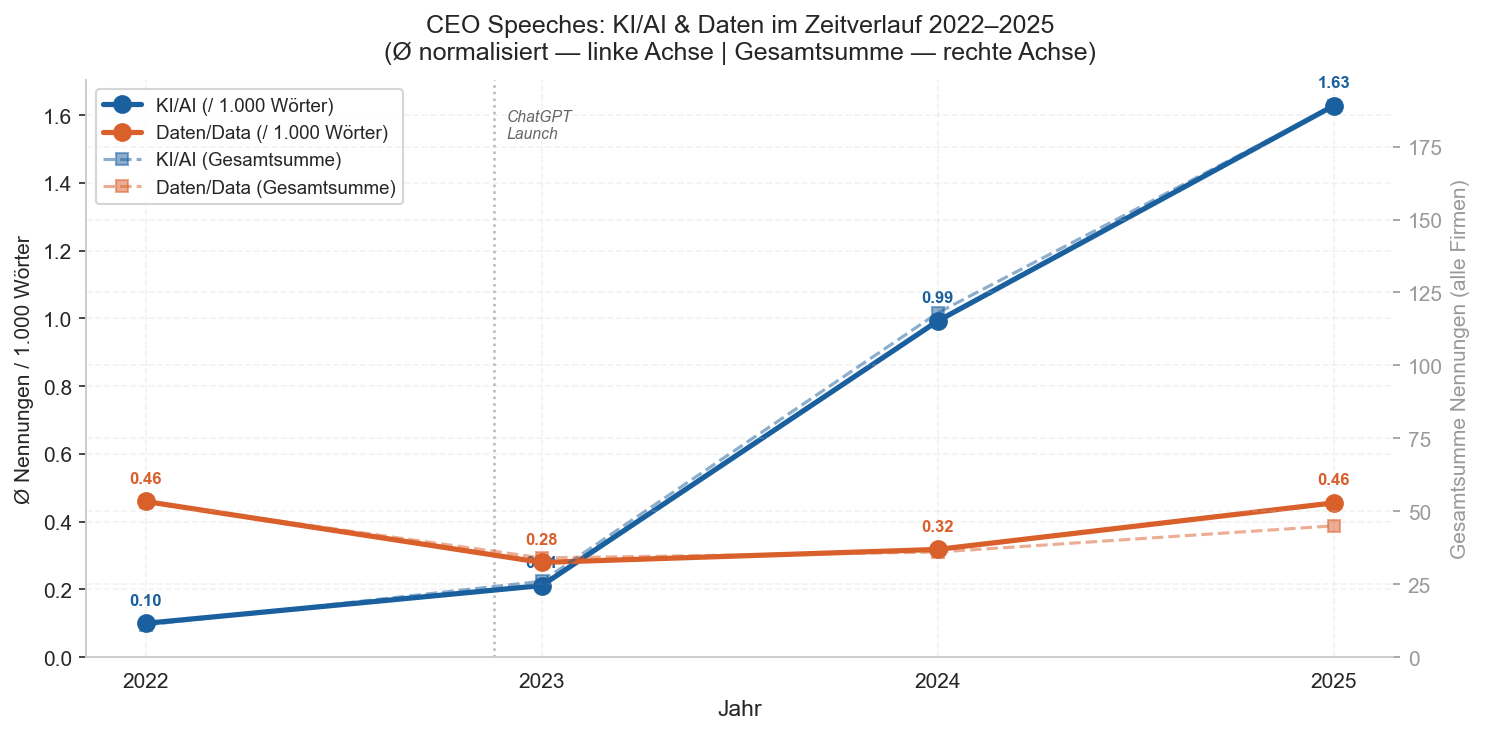
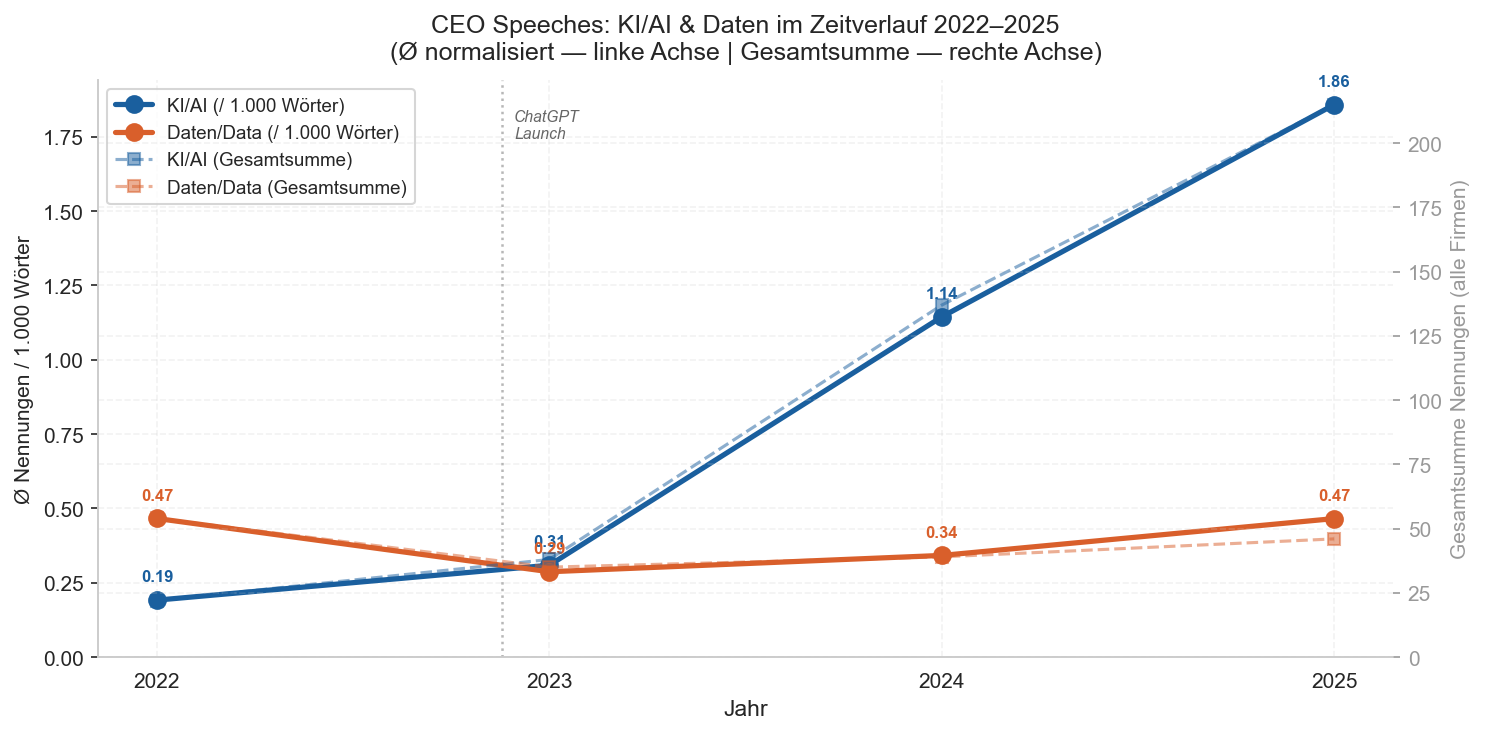
Exchanged plots and numbers after finding small fault in data

diff --git a/index.html b/index.html
@@ -222,7 +222,7 @@
       <p class="hero-sub"
          data-de="Analyse von 136 Hauptversammlungsreden der DAX-40-Unternehmen, 2022–2025."
          data-en="Analysis of 136 annual general meeting speeches from DAX-40 companies, 2022–2025.">
-        Analyse von 136 Hauptversammlungsreden der DAX-40-Unternehmen, 2022–2025.
+        Analyse von 136 Hauptversammlungsreden der DAX-Unternehmen, 2022–2025.
       </p>
       <p class="hero-meta">tgumpp &nbsp;·&nbsp; 31.03.2026</p>
     </div>
@@ -232,22 +232,22 @@
   <div class="stats">
     <div class="container">
       <div class="stat">
-        <div class="stat-num"><span>16×</span></div>
+        <div class="stat-num"><span>10×</span></div>
         <div class="stat-label"
              data-de="mehr KI-Erwähnungen in CEO-Reden 2022 → 2025"
              data-en="more AI mentions in CEO speeches 2022 → 2025">mehr KI-Erwähnungen in CEO-Reden 2022 → 2025</div>
       </div>
       <div class="stat">
-        <div class="stat-num">65%</div>
+        <div class="stat-num">76%</div>
         <div class="stat-label"
-             data-de="der DAX CEOs erwähnen 2025 KI; 2022 waren es noch 15%"
-             data-en="of DAX CEOs mention AI in 2025; in 2022, the figure was 15%">der DAX CEOs erwähnen 2025 KI; 2022 waren es noch 15%</div>
+             data-de="der DAX CEOs erwähnen 2025 KI; 2022 waren es noch 24%"
+             data-en="of DAX CEOs mention AI in 2025; in 2022, the figure was 24%">der DAX CEOs erwähnen 2025 KI; 2022 waren es noch 24%</div>
       </div>
       <div class="stat">
-        <div class="stat-num"><span>59%</span></div>
+        <div class="stat-num"><span>54%</span></div>
         <div class="stat-label"
-             data-de="der KI-erwähnenden CEOs sprechen 2025 noch über Daten, nach 80% in 2022"
-             data-en="of AI-mentioning CEOs still mention data in 2025, down from 80% in 2022">der KI-erwähnenden CEOs sprechen 2025 noch über Daten, nach 80% in 2022</div>
+             data-de="der KI-erwähnenden CEOs sprechen 2025 noch über Daten, nach 88% in 2022"
+             data-en="of AI-mentioning CEOs still mention data in 2025, down from 88% in 2022">der KI-erwähnenden CEOs sprechen 2025 noch über Daten, nach 80% in 2022</div>
       </div>
     </div>
   </div>
@@ -280,9 +280,9 @@
           <figcaption data-de="Anteil der DAX-CEOs mit mind. 1 Nennung je Keyword-Gruppe"
                       data-en="Share of DAX CEOs with at least 1 mention per keyword group">Anteil der DAX-CEOs mit mind. 1 Nennung je Keyword-Gruppe</figcaption>
         </figure>
-        <p data-de="Die KI-Erwähnungen in CEO-Reden lagen 2022 noch bei 0,10 pro 1.000 Wörter — nur 15% der CEOs erwähnten das Thema überhaupt. Ende 2022 veränderte sich etwas grundlegend. Bis 2025 stieg dieser Wert auf 1,63; der Anteil der Reden mit KI-Erwähnung auf 65%."
-           data-en="AI mentions in CEO speeches stood at just 0.10 per 1,000 words in 2022 — only 15% of CEOs mentioned the topic at all. Then something shifted fundamentally at the end of 2022. By 2025, that figure had risen to 1.63, and the share of speeches mentioning AI had climbed to 65%.">
-          Die KI-Erwähnungen in CEO-Reden lagen 2022 noch bei 0,10 pro 1.000 Wörter — nur 15% der CEOs erwähnten das Thema überhaupt. Ende 2022 veränderte sich etwas grundlegend. Bis 2025 stieg dieser Wert auf 1,63; der Anteil der Reden mit KI-Erwähnung auf 65%.
+        <p data-de="Die KI-Erwähnungen in CEO-Reden lagen 2022 noch bei 0,19 pro 1.000 Wörter — nur 24% der CEOs erwähnten das Thema überhaupt. Der ChatGPT-Launch Ende 2022 veränderte dann etwas grundlegend. Bis 2025 stieg dieser Wert auf 1,86; der Anteil der Reden mit KI-Erwähnung auf 76%."
+           data-en="AI mentions in CEO speeches stood at just 0.19 per 1,000 words in 2022 — only 24% of CEOs mentioned the topic at all. Then something shifted fundamentally at the end of 2022 with the launch of ChatGPT. By 2025, that figure had risen to 1.86, and the share of speeches mentioning AI had climbed to 76%.">
+          Die KI-Erwähnungen in CEO-Reden lagen 2022 noch bei 0,19 pro 1.000 Wörter — nur 24% der CEOs erwähnten das Thema überhaupt. Der ChatGPT-Launch Ende 2022 veränderte dann etwas grundlegend. Bis 2025 stieg dieser Wert auf 1,86; der Anteil der Reden mit KI-Erwähnung auf 76%.
         </p>
       </div>
 
@@ -296,13 +296,13 @@
           <figcaption data-de="Absolute Nennungen und prozentuale Aufteilung — CEO-Reden 2022–2025"
                       data-en="Absolute mentions and percentage split — CEO speeches 2022–2025">Absolute Nennungen und prozentuale Aufteilung — CEO-Reden 2022–2025</figcaption>
         </figure>
-        <p data-de="2022 machten Daten-Begriffe 83% aller Nennungen in CEO-Reden aus. KI war eine Randnotiz. Drei Jahre später hat sich das Verhältnis umgekehrt: KI steht für 81%, Daten für 19%."
-           data-en="In 2022, data-related terms accounted for 83% of all keyword-group mentions in CEO speeches. AI was a footnote. Three years later, the ratio has reversed: AI stands at 81%, data at 19%.">
-          2022 machten Daten-Begriffe 83% aller Nennungen in CEO-Reden aus. KI war eine Randnotiz. Drei Jahre später hat sich das Verhältnis umgekehrt: KI steht für 81%, Daten für 19%.
+        <p data-de="2022 machten Daten-Begriffe 71% aller Nennungen in CEO-Reden aus. KI war ein Nebenthema. Drei Jahre später hat sich das Verhältnis umgekehrt: KI steht für 82%, Daten für 18%."
+           data-en="In 2022, data-related terms accounted for 71% of all keyword-group mentions in CEO speeches. AI was a side topic. Three years later, the ratio has reversed: AI stands at 82%, data at 18%.">
+          2022 machten Daten-Begriffe 71% aller Nennungen in CEO-Reden aus. KI war ein Nebenthema. Drei Jahre später hat sich das Verhältnis umgekehrt: KI steht für 82%, Daten für 18%.
         </p>
-        <p data-de="In absoluten Zahlen ist das ein leichter Rückgang — Daten-Nennungen sinken von 53 auf 45. Aber relativ zur KI-Rhetorik verliert das Thema Daten seinen Stellenwert in der öffentlichen Kommunikation."
-           data-en="In absolute terms this is a small decline — data mentions are slightly reduced from 53 to 45. But relative to the surge in AI rhetoric, data is losing its prominence in public communication.">
-          In absoluten Zahlen ist das ein leichter Rückgang — Daten-Nennungen sinken von 53 auf 45. Aber relativ zur KI-Rhetorik verliert das Thema Daten seinen Stellenwert in der öffentlichen Kommunikation.
+        <p data-de="In absoluten Zahlen ist das ein leichter Rückgang — Daten-Nennungen sinken von 54 auf 46. Aber relativ zur KI-Rhetorik verliert das Thema Daten seinen Stellenwert in der öffentlichen Kommunikation."
+           data-en="In absolute terms this is a small decline — data mentions are slightly reduced from 54 to 46. But relative to the surge in AI rhetoric, data is losing its prominence in public communication.">
+          In absoluten Zahlen ist das ein leichter Rückgang — Daten-Nennungen sinken von 54 auf 46. Aber relativ zur KI-Rhetorik verliert das Thema Daten seinen Stellenwert in der öffentlichen Kommunikation.
         </p>
       </div>
 
@@ -316,33 +316,33 @@
           <figcaption data-de="CEO-Speeches: KI-Erwähner mit und ohne Daten-Erwähnung, 2022–2025"
                       data-en="CEO speeches: AI-mentioners with and without data mentions, 2022–2025">CEO-Speeches: KI-Erwähner mit und ohne Daten-Erwähnung, 2022–2025</figcaption>
         </figure>
-        <p data-de="Von den CEOs, die 2025 KI erwähnen, sprechen nur 59% auch über Daten — Tendenz fallend. 2022 lag dieser Wert noch bei 80%."
-                    data-en="Of the CEOs who mentioned AI in 2025, only 59% also mentioned data — a declining trend. In 2022, that figure was still 80%.">
-          Von den CEOs, die 2025 KI erwähnen, sprechen nur 59% auch über Daten — Tendenz fallend. 2022 lag dieser Wert noch bei 80%.
+        <p data-de="Von den CEOs, die 2025 KI erwähnen, sprechen nur 54% auch über Daten — Tendenz fallend. 2022 lag dieser Wert noch bei 88%."
+                    data-en="Of the CEOs who mentioned AI in 2025, only 54% also mentioned data — a declining trend. In 2022, that figure was still 88%.">
+          Von den CEOs, die 2025 KI erwähnen, sprechen nur 54% auch über Daten — Tendenz fallend. 2022 lag dieser Wert noch bei 88%.
         </p>
-        <p data-de="Nur 38% aller CEOs erwähnen 2025 KI und Daten gemeinsam. Je mehr CEOs über KI sprechen, desto kleiner wird der Anteil, der dabei auch die Datenbasis thematisiert."
-           data-en="Only 38% of all CEOs in 2025 mention both AI and data together. The more CEOs talk about AI, the smaller the share that also addresses the underlying data foundation.">
-          Nur 38% aller CEOs erwähnen 2025 KI und Daten gemeinsam. Je mehr CEOs über KI sprechen, desto kleiner wird der Anteil, der dabei auch die Datenbasis thematisiert.
+        <p data-de="Damit erwähnen nur 41% aller CEOs 2025 KI und Daten gemeinsam. Je mehr CEOs über KI sprechen, desto kleiner wird der Anteil, der dabei auch die Datenbasis thematisiert."
+           data-en="Only 41% of all CEOs in 2025 mention both AI and data together. The more CEOs talk about AI, the smaller the share that also addresses the underlying data foundation.">
+          Damit erwähnen nur 41% aller CEOs 2025 KI und Daten gemeinsam. Je mehr CEOs über KI sprechen, desto kleiner wird der Anteil, der dabei auch die Datenbasis thematisiert.
         </p>
       </div>
 
       <!-- FINDING 4 -->
       <div class="finding">
         <div class="finding-num" data-de="Befund 04" data-en="Finding 04">Befund 04</div>
-        <h2 data-de="Sechs Unternehmen — vier Jahre Schweigen"
-            data-en="Six companies — four years of silence">Sechs Unternehmen — vier Jahre Schweigen</h2>
+        <h2 data-de="Vier Unternehmen — vier Jahre Schweigen"
+            data-en="Four companies — four years of silence">Sechs Unternehmen — vier Jahre Schweigen</h2>
         <figure>
           <img src="assets/plots/plot_konsistenz_ceo_kombiniert_colors.png" alt="Konsistenz der KI/Daten-Erwähnungen 2022–2025" loading="lazy">
           <figcaption data-de="Konsistenz der Erwähnungen je Firma — CEO-Reden 2022–2025"
                       data-en="Consistency of mentions per company — CEO speeches 2022–2025">Konsistenz der Erwähnungen je Firma — CEO-Reden 2022–2025</figcaption>
         </figure>
-        <p data-de="Sechs DAX-Unternehmen erwähnten KI in keiner einzigen CEO-Rede zwischen 2022 und 2025 (Beiersdorf, Daimler Truck, MTU, Mercedes, Munich Re, Fresenius Medical Care). Gleichzeitig adressiert eine wachsende Gruppe — darunter SAP, Siemens, Infineon — das Thema seit dem KI-Shift jedes Jahr. Die Deutsche Telekom ist das einzige Unternehmen, das jedes Jahr KI und Daten zusammen erwähnt."
-           data-en="Six DAX companies did not mention AI in a single CEO speech between 2022 and 2025 (Beiersdorf, Daimler Truck, MTU, Mercedes, Munich Re, Fresenius Medical Care). Meanwhile, a growing group — including SAP, Siemens, and Infineon — has addressed the topic every year since the AI shift. Deutsche Telekom is the only company to mention both AI and data together in every year.">
-          Sechs DAX-Unternehmen erwähnten KI in keiner einzigen CEO-Rede zwischen 2022 und 2025 (Beiersdorf, Daimler Truck, MTU, Mercedes, Munich Re, Fresenius Medical Care). Gleichzeitig adressiert eine wachsende Gruppe — darunter SAP, Siemens, Infineon — das Thema seit dem KI-Shift jedes Jahr. Die Deutsche Telekom ist das einzige Unternehmen, das jedes Jahr KI und Daten zusammen erwähnt.
+        <p data-de="Vier DAX-Unternehmen erwähnten KI in keiner einzigen CEO-Rede zwischen 2022 und 2025 (Beiersdorf, Daimler Truck, MTU, Munich Re). Gleichzeitig adressiert eine wachsende Gruppe — darunter SAP, Siemens, Infineon — das Thema seit dem KI-Shift jedes Jahr. Die Deutsche Telekom und Siemens sind die einzigen Unternehmen, die jedes Jahr KI und Daten zusammen erwähnen."
+           data-en="Vier DAX companies did not mention AI in a single CEO speech between 2022 and 2025 (Beiersdorf, Daimler Truck, MTU, Munich Re). Meanwhile, a growing group — including SAP, Siemens, and Infineon — has addressed the topic every year since the AI shift. Deutsche Telekom and Siemens are the only companies to mention both AI and data together in every year.">
+          Vier DAX-Unternehmen erwähnten KI in keiner einzigen CEO-Rede zwischen 2022 und 2025 (Beiersdorf, Daimler Truck, MTU, Munich Re). Gleichzeitig adressiert eine wachsende Gruppe — darunter SAP, Siemens, Infineon — das Thema seit dem KI-Shift jedes Jahr. Die Deutsche Telekom und Siemens sind die einzigen Unternehmen, die jedes Jahr KI und Daten zusammen erwähnen.
         </p>
-        <p data-de="Bemerkenswert: Alle Unternehmen aus dem ehemaligen Siemens-Konzern (Siemens Energy, Siemens Healthineers, Infineon) erwähnen seit mindestens zwei Jahren konsequent KI in ihren CEO-Reden."
-           data-en="Notably, all companies from the former Siemens group (Siemens Energy, Siemens Healthineers, Infineon) have consistently mentioned AI in their CEO speeches for at least two consecutive years.">
-          Bemerkenswert: Alle Unternehmen aus dem ehemaligen Siemens-Konzern (Siemens Energy, Siemens Healthineers, Infineon) erwähnen seit mindestens zwei Jahren konsequent KI in ihren CEO-Reden.
+        <p data-de="Bemerkenswert: Alle Unternehmen aus dem (ehemaligen) Siemens-Konzern (Siemens Energy, Siemens Healthineers, Infineon, Siemens) erwähnen seit mindestens zwei Jahren konsequent KI in ihren CEO-Reden."
+           data-en="Notably, all companies from the former Siemens group (Siemens Energy, Siemens Healthineers, Infineon, Siemens) have consistently mentioned AI in their CEO speeches for at least two consecutive years.">
+          Bemerkenswert: Alle Unternehmen aus dem (ehemaligen) Siemens-Konzern (Siemens Energy, Siemens Healthineers, Infineon, Siemens) erwähnen seit mindestens zwei Jahren konsequent KI in ihren CEO-Reden.
         </p>
       </div>
 
@@ -356,17 +356,17 @@
     <h2 data-de="Was bedeutet das?"
             data-en="What does this imply?">Was bedeutet das?</h2>
     <div class="finding visible">
-      <p data-de="Im Jahr 2025 erwähnt ein Drittel der CEOs von DAX-Unternehmen KI überhaupt nicht, und bei ~50&nbsp;% fehlt die Erwähnung von Daten. Da KI in den kommenden Jahren einer der wichtigsten Werttreiber für Unternehmen und Aktionäre sein wird, wirft dieses Schweigen die Frage auf, wie zuversichtlich Unternehmen sind, aus dieser Technologie eigene Wertsteigerung zu ziehen. Sechs Unternehmen gingen im Beobachtungszeitraum sogar in keiner einzigen ihrer Reden auf KI ein."
-         data-en="In 2025, one third of DAX company CEOs do not mention AI at all, and around 50&nbsp;% make no mention of data. As AI is set to become one of the key value drivers for companies and shareholders in the coming years, this silence raises the question of how confident organisations are in their ability to extract value from this technology. Six companies did not address AI in a single speech throughout the entire observation period.">
-        Im Jahr 2025 erwähnt ein Drittel der CEOs von DAX-Unternehmen KI überhaupt nicht, und bei ~50&nbsp;% fehlt die Erwähnung von Daten. Da KI in den kommenden Jahren einer der wichtigsten Werttreiber für Unternehmen und Aktionäre sein wird, wirft dieses Schweigen die Frage auf, wie zuversichtlich Unternehmen sind, aus dieser Technologie eigene Wertsteigerung zu ziehen. Sechs Unternehmen gingen im Beobachtungszeitraum sogar in keiner einzigen ihrer Reden auf KI ein.
+      <p data-de="Im Jahr 2025 erwähnt ein Viertel der CEOs von DAX-Unternehmen KI überhaupt nicht, und bei ~50&nbsp;% fehlt die Erwähnung von Daten. Da KI in den kommenden Jahren einer der wichtigsten Werttreiber für Unternehmen und Aktionäre sein wird, wirft dieses Schweigen die Frage auf, wie zuversichtlich Unternehmen sind, aus dieser Technologie eigene Wertsteigerung zu ziehen. Vier Unternehmen gingen im Beobachtungszeitraum sogar in keiner einzigen ihrer Reden auf KI ein."
+         data-en="In 2025, one quarter of DAX company CEOs do not mention AI at all, and around 50&nbsp;% make no mention of data. As AI is set to become one of the key value drivers for companies and shareholders in the coming years, this silence raises the question of how confident organisations are in their ability to extract value from this technology. Four companies did not address AI in a single speech throughout the entire observation period.">
+        Im Jahr 2025 erwähnt ein Viertel der CEOs von DAX-Unternehmen KI überhaupt nicht, und bei ~50&nbsp;% fehlt die Erwähnung von Daten. Da KI in den kommenden Jahren einer der wichtigsten Werttreiber für Unternehmen und Aktionäre sein wird, wirft dieses Schweigen die Frage auf, wie zuversichtlich Unternehmen sind, aus dieser Technologie eigene Wertsteigerung zu ziehen. Vier Unternehmen gingen im Beobachtungszeitraum sogar in keiner einzigen ihrer Reden auf KI ein.
       </p>
-      <p data-de="Im Vergleich zu KI-Erwähnungen nennen etwa 50&nbsp;% weniger Unternehmen Daten, wobei das Verhältnis der Gesamtnennungen in den CEO-Reden bei 4:1 liegt. Zudem ging die Erwähnung von KI in Verbindung mit Daten von 80&nbsp;% im Jahr 2022 auf 59&nbsp;% im Jahr 2025 zurück."
-         data-en="Compared to AI mentions, around 50&nbsp;% fewer companies mention data — with the ratio of total mentions across CEO speeches standing at 4:1. Additionally, the share of AI-mentioning CEOs who also address data declined from 80&nbsp;% in 2022 to 59&nbsp;% in 2025.">
-        Im Vergleich zu KI-Erwähnungen nennen etwa 50&nbsp;% weniger Unternehmen Daten, wobei das Verhältnis der Gesamtnennungen in den CEO-Reden bei 4:1 liegt. Zudem ging die Erwähnung von KI in Verbindung mit Daten von 80&nbsp;% im Jahr 2022 auf 59&nbsp;% im Jahr 2025 zurück.
+      <p data-de="Im Vergleich zu KI-Erwähnungen nennen gut 50% weniger Unternehmen Daten, wobei das Verhältnis der Gesamtnennungen in den CEO-Reden bei 4:1 liegt. Zudem ging die Erwähnung von KI in Verbindung mit Daten von 88&nbsp;% im Jahr 2022 auf 54&nbsp;% im Jahr 2025 zurück."
+         data-en="Compared to AI mentions, around 50% fewer companies mention data — with the ratio of total mentions across CEO speeches standing at 4:1. Additionally, the share of AI-mentioning CEOs who also address data declined from 88&nbsp;% in 2022 to 54&nbsp;% in 2025.">
+        Im Vergleich zu KI-Erwähnungen nennen gut 50% weniger Unternehmen Daten, wobei das Verhältnis der Gesamtnennungen in den CEO-Reden bei 4:1 liegt. Zudem ging die Erwähnung von KI in Verbindung mit Daten von 88&nbsp;% im Jahr 2022 auf 54&nbsp;% im Jahr 2025 zurück.
       </p>
       <blockquote
-        data-de="Ob dieses Schweigen operative Prioritäten widerspiegelt oder ob Datenstrategie intern kommuniziert wird — das bleibt offen. Genau das wollen wir in Interviews mit Verantwortlichen herausfinden."
-        data-en="Whether this silence reflects operational priorities or whether data strategy is communicated internally — that remains an open question. This is precisely what we aim to explore in interviews with those responsible.">
+        data-de="Ob dieses Schweigen operative Prioritäten widerspiegelt oder ob Datenstrategie intern kommuniziert wird — das bleibt offen. Genau das will ich in Interviews mit Verantwortlichen herausfinden."
+        data-en="Whether this silence reflects operational priorities or whether data strategy is communicated internally — that remains an open question. This is precisely what I aim to explore in interviews with those responsible.">
         Ob dieses Schweigen operative Prioritäten widerspiegelt oder ob Datenstrategie intern kommuniziert wird — das bleibt offen. Genau das will ich in Interviews mit Verantwortlichen herausfinden.
       </blockquote>
     </div>
@@ -384,10 +384,10 @@
       </p>
       <p data-de="Wenn du Datenstrategie, Data Governance oder KI-Implementierung in einem größeren Unternehmen verantwortest und 45 Minuten Zeit hast, freue ich mich über eine Nachricht. Teilnehmende erhalten die vollständigen Ergebnisse der Studie."
          data-en="If you are responsible for data strategy, data governance, or AI implementation in a larger organisation and have 45 minutes to spare, I would love to hear from you. Participants receive the full study results.">
-        Wenn du Datenstrategie, Data Governance oder KI-Implementierung in einem größeren Unternehmen verantwortest und 45 Minuten Zeit hast, freue ich mich über eine Nachricht. Teilnehmende erhalten die vollständigen Ergebnisse der Studie.
+        Wenn du Datenstrategie, Data Governance oder KI-Implementierung in einem größeren Unternehmen verantwortest und 55 Minuten Zeit hast, freue ich mich über eine Nachricht. Teilnehmende erhalten die vollständigen Ergebnisse der Studie in aufbereiter Form.
       </p>
       <a class="cta-btn"
-         href="mailto:tgumpp@mail.uni-mannheim.de?subject=Interview%20Masterarbeit&body=Haben%20Sie%20demn%C3%A4chst%20eine%20freie%20Stunde%20f%C3%BCr%20ein%20Interview%3F%20Schreiben%20Sie%20mir%20gerne%20einen%20Terminvorschlag.%0A%0AVielen%20Dank%20f%C3%BCr%20Ihre%20Hilfe."
+         href="mailto:tgumpp@mail.uni-mannheim.de?subject=Interview%20Masterarbeit&body=Haben%20Sie%20demn%C3%A4chst%20%20freie%2055%20Minuten%20f%C3%BCr%20ein%20Interview%3F%20Schreiben%20Sie%20mir%20gerne%20einen%20Terminvorschlag.%0A%0AVielen%20Dank%20f%C3%BCr%20Ihre%20Hilfe."
          data-de="Kontakt aufnehmen"
          data-en="Get in touch">Kontakt aufnehmen</a>
       <p class="cta-note">Timotheus Gumpp &nbsp;·&nbsp; <span data-de="Masterarbeit · Universität Mannheim" data-en="Master's Thesis · University of Mannheim">Masterarbeit · Universität Mannheim</span> &nbsp;·&nbsp; tgumpp@mail.uni-mannheim.de</p>
